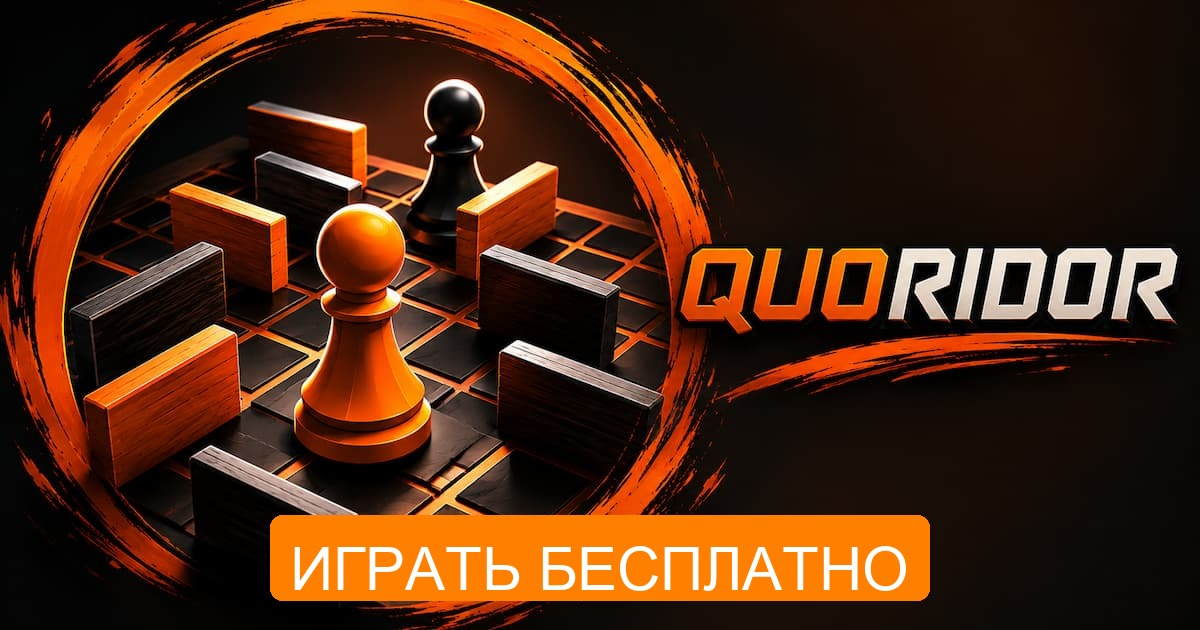
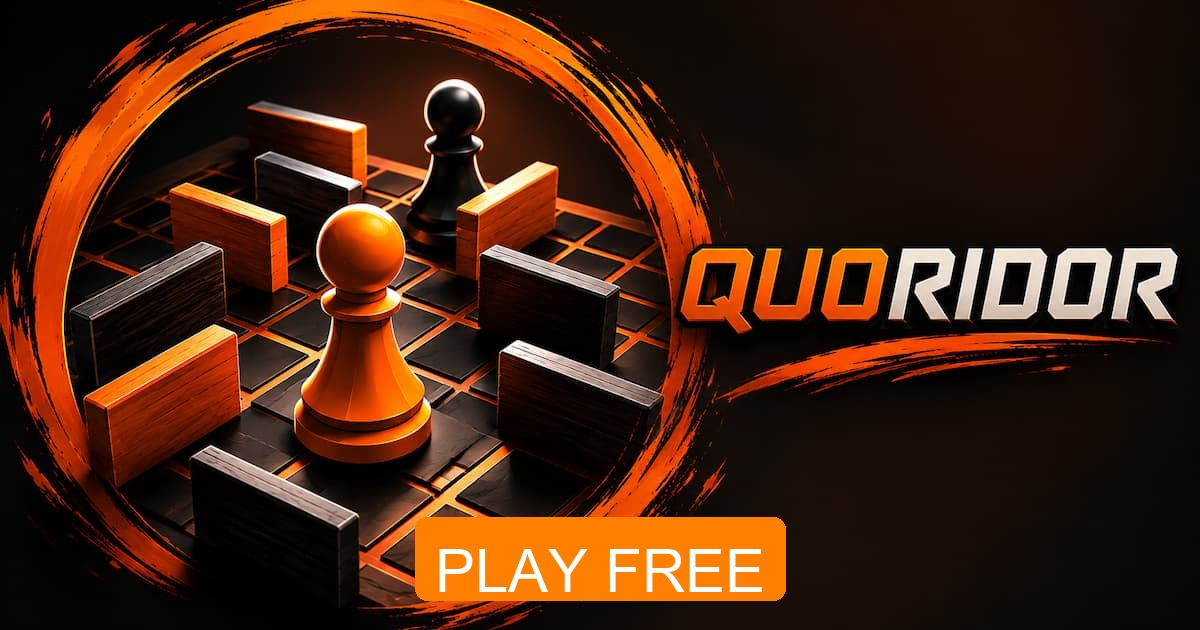
feat: switch lang to English, update meta/OG/JSON-LD/image CTA

Changed region(s): [[0.2158, 0.8143, 0.8017, 0.9651]]

diff --git a/frontend/index.html b/frontend/index.html
@@ -1,14 +1,14 @@
 <!DOCTYPE html>
-<html lang="ru" id="htmlTag">
+<html lang="en" id="htmlTag">
 
 <head>
 
   <meta charset="utf-8" />
-  <title>Quoridor — играть в Коридор онлайн | Стратегическая игра</title>
-  <meta name="description" content="Играйте в Коридор (Quoridor) онлайн — стратегическая настольная игра для 2–4 игроков. Бесплатно, без скачивания, мультиплеер с друзьями." />
+  <title>Quoridor — Play Online Strategy Board Game | Free Multiplayer</title>
+  <meta name="description" content="Play Quoridor online for free — a strategic board game for 2–4 players. No download, multiplayer with friends." />
   <meta name="viewport" content="width=device-width,initial-scale=1" />
-  <meta property="og:title" content="Quoridor — онлайн-стратегия" />
-  <meta property="og:description" content="Играйте в Коридор онлайн бесплатно. Мультиплеер с друзьями." />
+  <meta property="og:title" content="Quoridor — Play Online Strategy Board Game | Free Multiplayer" />
+  <meta property="og:description" content="Play Quoridor online for free. Multiplayer strategy board game with friends." />
   <meta property="og:type" content="website" />
   <meta property="og:url" content="https://playquor.org" />
   <meta property="og:image" content="https://playquor.org/og-image.jpg" />
@@ -24,7 +24,7 @@
     "url": "https://playquor.org",
     "applicationCategory": "Game",
     "operatingSystem": "All",
-    "description": "Играйте в Коридор (Quoridor) онлайн — стратегическая настольная игра для 2–4 игроков. Бесплатно, без скачивания, мультиплеер с друзьями.",
+    "description": "Play Quoridor online for free — a strategic board game for 2–4 players. No download, multiplayer with friends.",
     "inLanguage": ["ru", "en"],
     "offers": {
       "@type": "Offer",
